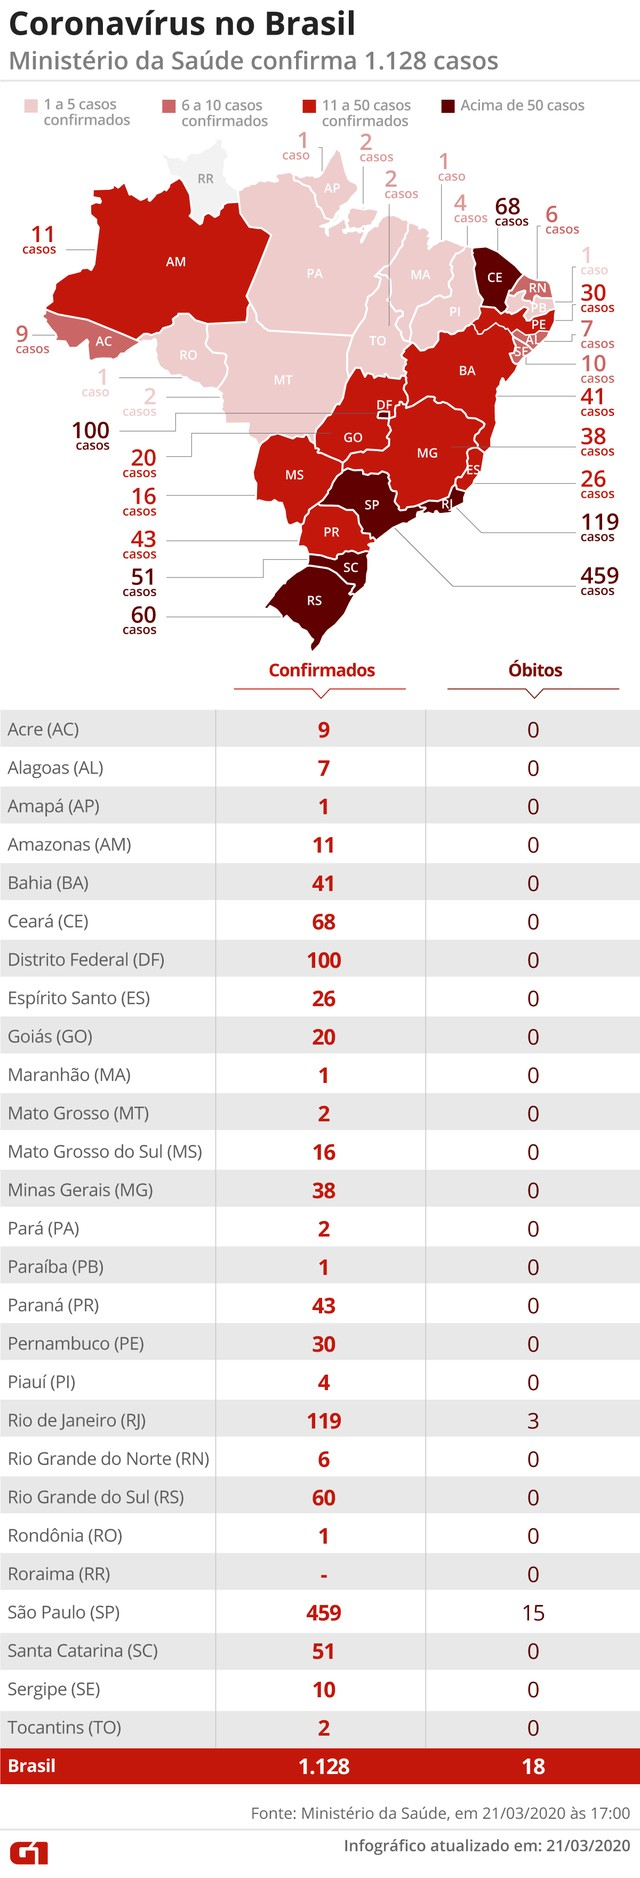
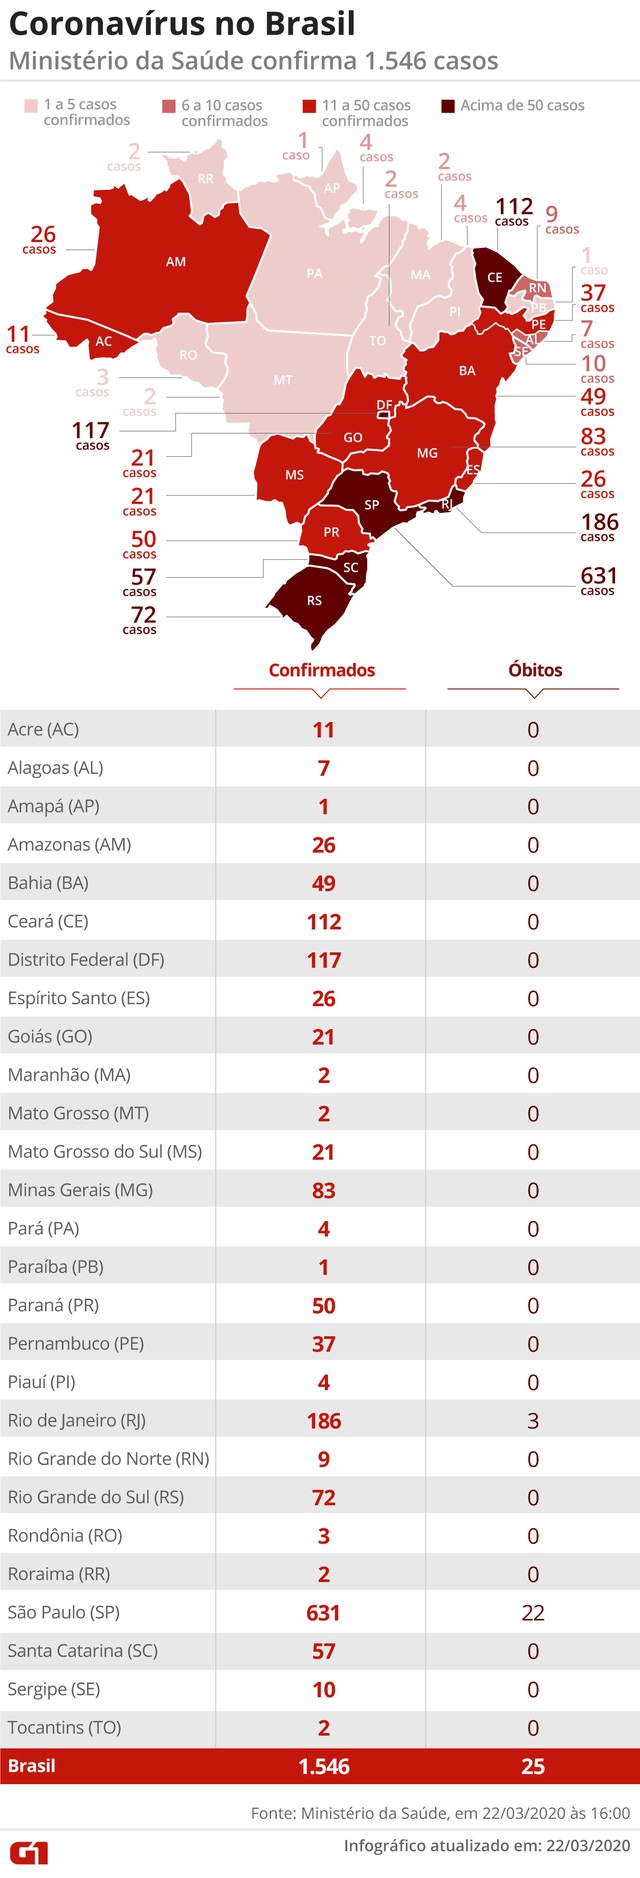
g

diff --git a/index.html b/index.html
@@ -32,10 +32,10 @@
     <p id="brasil"><img id="bandeira-brasil" src="img/brasilian_flag.png">Brasil</p>
 
     <p>Total de casos</p>
-    <div class="big-numbers"><p>1.128</p></div>
+    <div class="big-numbers"><p>1.546</p></div>
 
     <p>Mortes</p>
-    <div class="big-numbers"><p>18</p></div>
+    <div class="big-numbers"><p>25</p></div>
 
     <p class="curados">Curados</p>
     <div class="big-numbers"><p class="curados">2</p></div>
